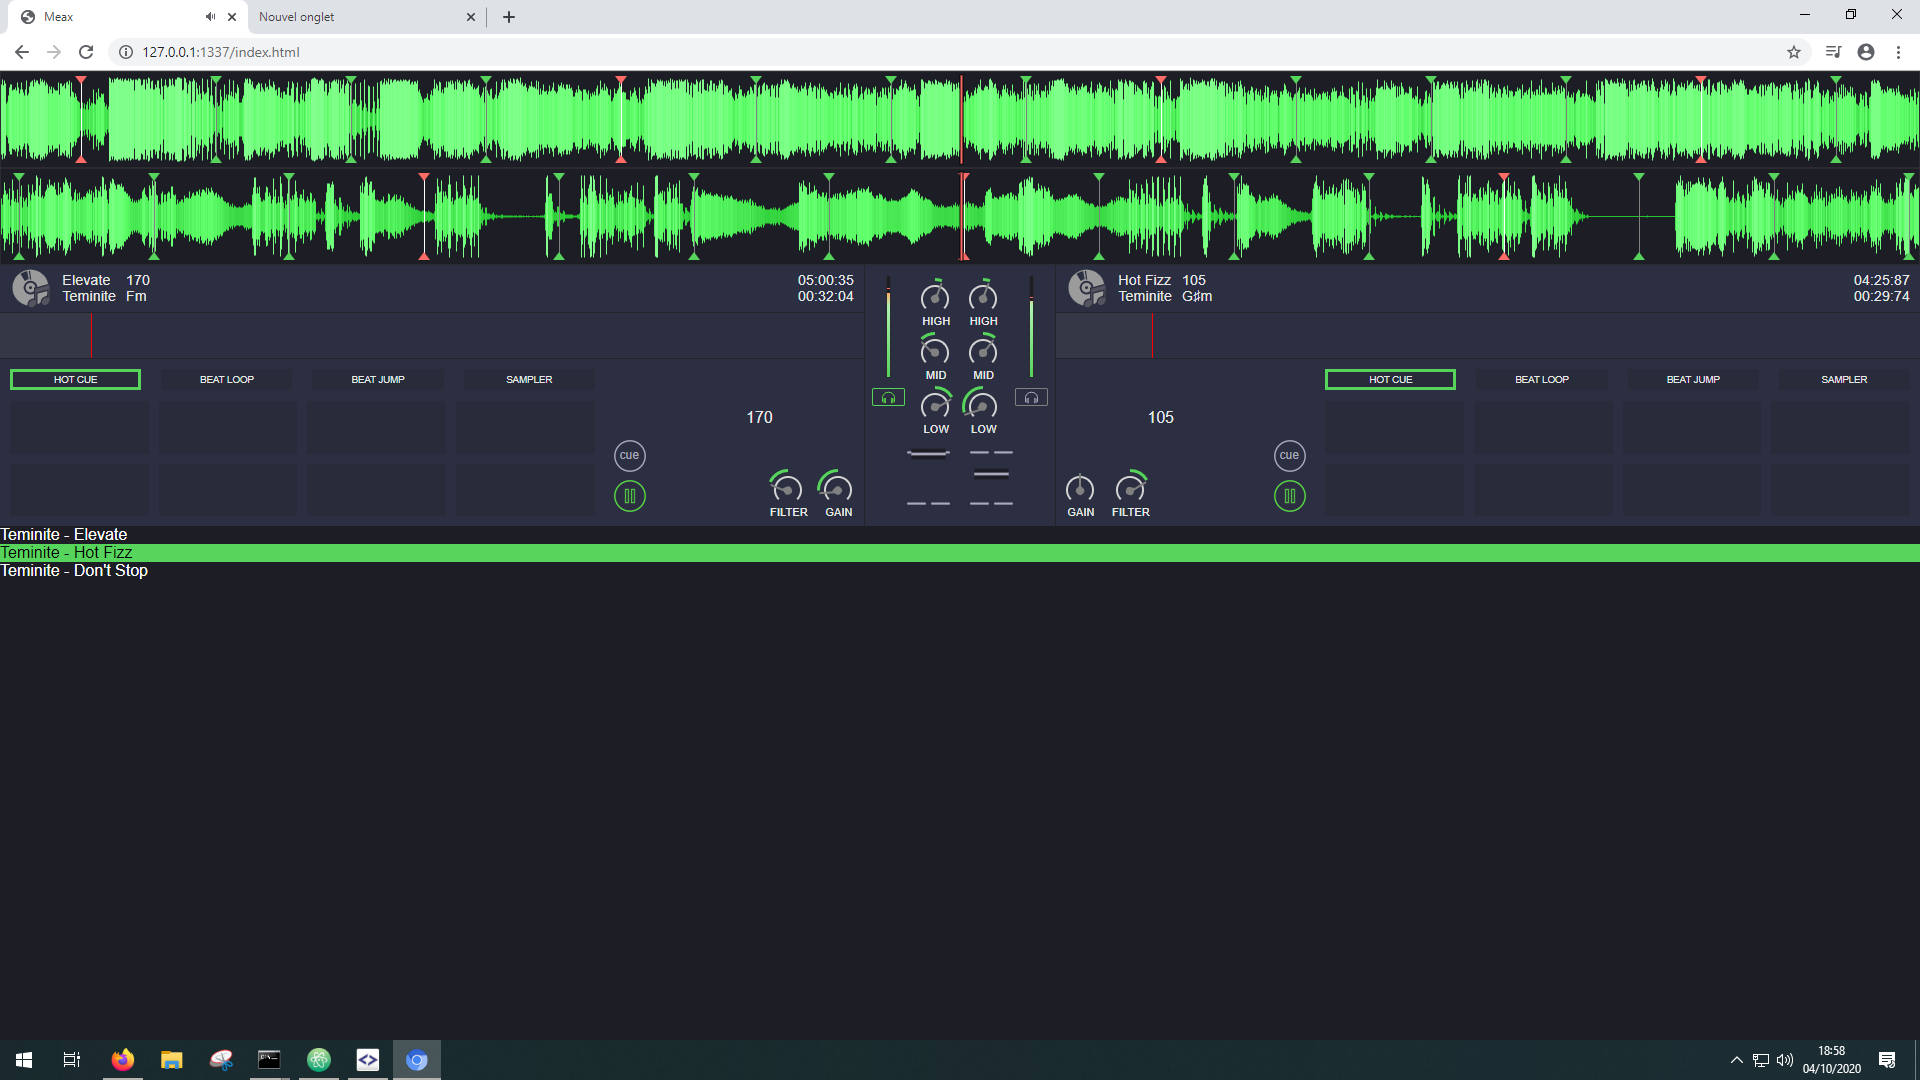
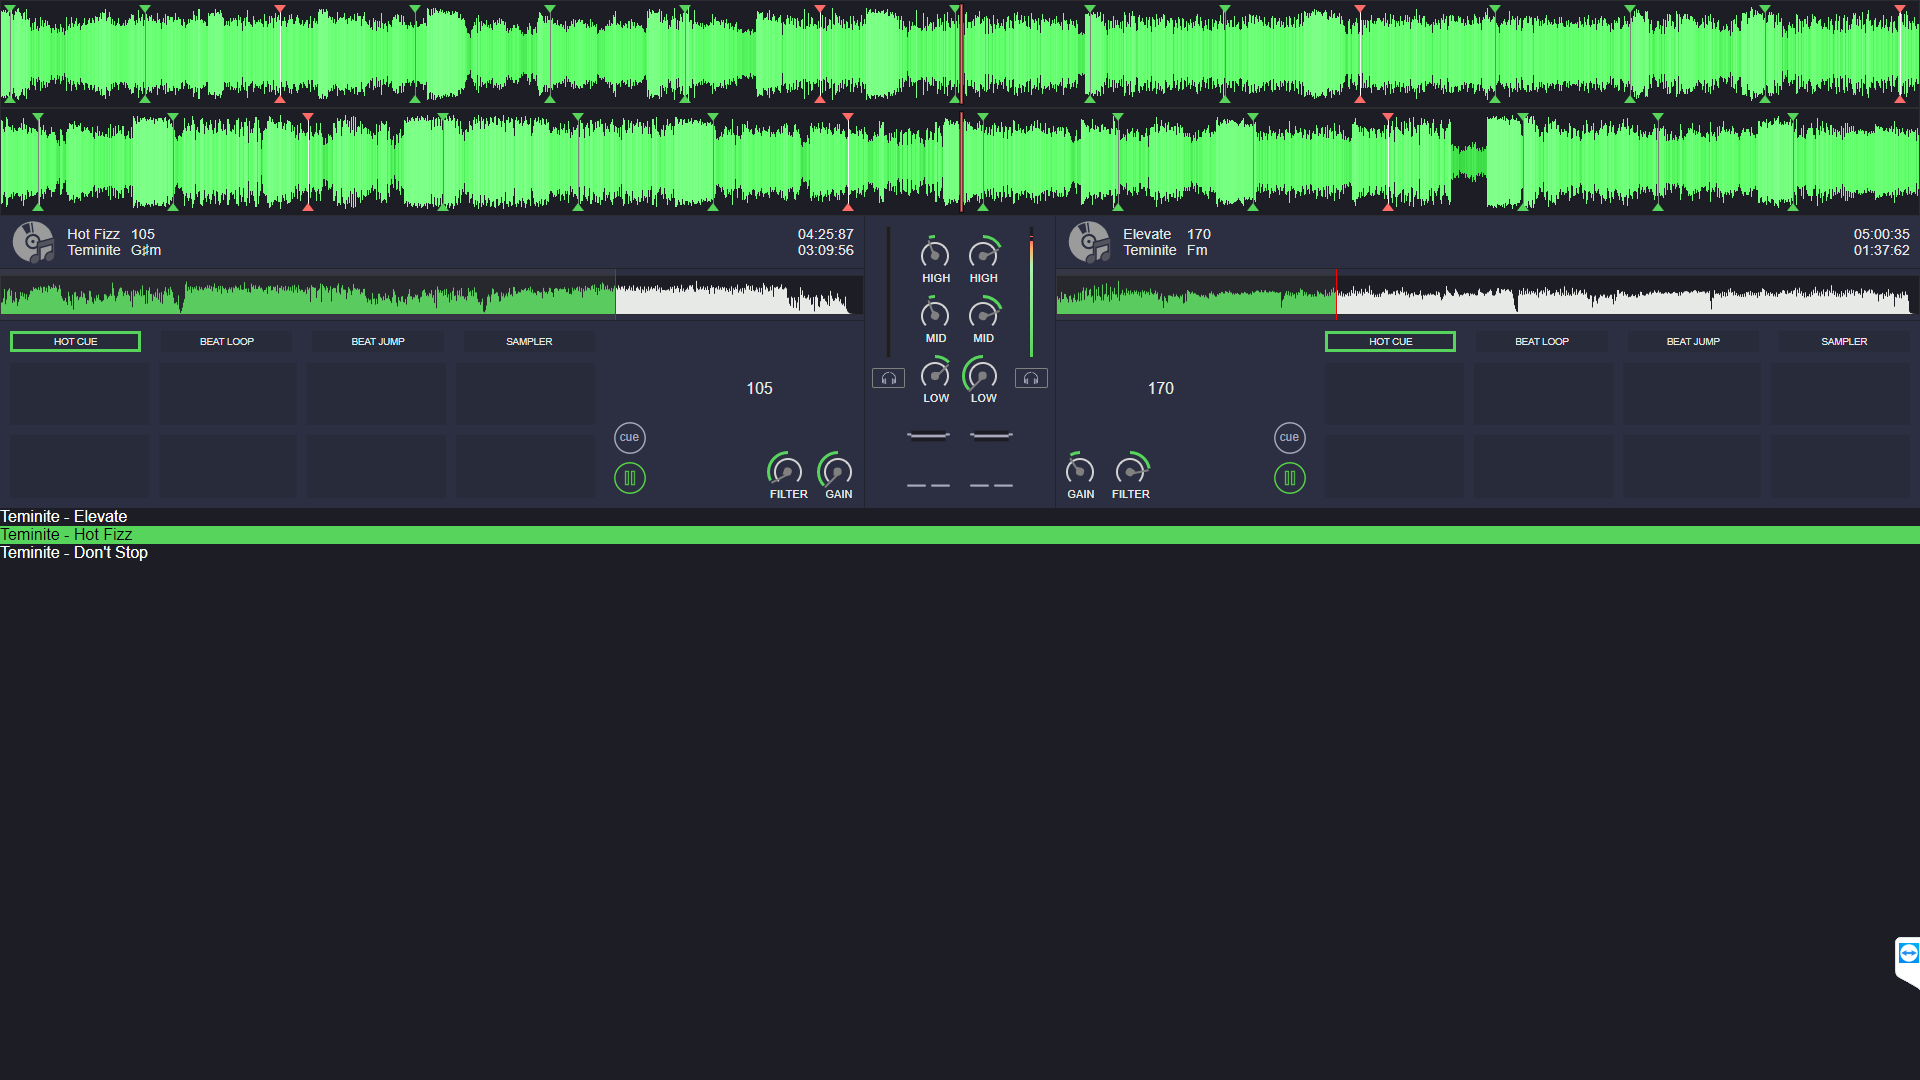
link headphones UI button

diff --git a/dist/Meax.min.js b/dist/Meax.min.js
@@ -146,7 +146,7 @@ class Meax {
 
 
   _onControllerEvent(element) {
-    //console.log(element);
+    console.log(element);
     // First bit is component ID
     const componentId = element.id.charAt(0);
     // Remove ID bit to get command unique ID
@@ -1224,7 +1224,6 @@ class Player {
 
   loadTrack(track) {
     return new Promise(resolve => {
-      console.log('load track')
       // Checking if any previous source node is playing. If true, we clean it
       if (this._isPlaying) {
         this.stopPlayback();
@@ -1235,7 +1234,6 @@ class Player {
       this._player.src = track.url;
 
       const loadedListener = () => {
-        console.log('loaded')
         this._player.removeEventListener('loadedmetadata', loadedListener); // Remove loaded track listener
         // Restore context playing state in case it turned suspended
         this._audioCtx.resume();
@@ -1659,18 +1657,23 @@ class Deck {
 
   _buildWaveform() {
     const waveformProgress = new AudioVisualizer({
-      type: 'waveformprogress', // Mandatory, either 'frequencybars', 'frequencycircle', 'oscilloscope', 'peakmeter' or 'spectrum'
-      player: Meax.pc.getPlayer(this._name), // Mandatory, the play to wire visualisation to
+      type: 'waveform',
+      player: Meax.pc.getPlayer(this._name),
+      renderTo: document.querySelector(`#waveform-${this._name}`),
+      fftSize: 1024,
       audioContext: Meax.pc.audioContext,
       inputNode: Meax.pc.getPlayerOutputNode(this._name),
-      renderTo: document.querySelector(`#waveform-${this._name}`), // Mandatory, the HTML div to render component
-      fftSize: 1024, // Optional (default 1024), Higher is smoother for vuemeter (doesn't consume much CPU)
-      animation: 'fade', // Optional (default fade), 'fade' or 'gradient', the animation on bar on progress
-      wave: { // Optional
-        align: 'bottom', // Optional (default center), how to display waveform : top, center, bottom
-        barWidth: 1, // Optional (default 1), the bar width. in range [1, 100]
-        barMarginScale: 0 // Optional (default 0.25), The bar margin percentage from to bar width in range [0, 1]
+      animation: 'fade',
+      wave: {
+        align: 'bottom',
+        barWidth: 1,
+        barMarginScale: 0,
       },
+      colors: {
+        background: '#1D1E25',
+        track: '#E7E9E7',
+        progress: '#56D45B'
+      }
     });
   }
 
@@ -1693,6 +1696,15 @@ class Deck {
   _addEvents() {
     CustomEvents.addEvent('click', this._dom.play, () => {
       Meax.pc.togglePlayback(this._name);
+    }, this);
+
+    CustomEvents.addEvent('click', this._dom.cuePhone, () => {
+      Meax.pc.setCuePhone(this._name, {
+        raw: [
+          (this._name === 'left' ? 144 : 145),
+          84,
+          (this._dom.cuePhone.classList.contains('enabled') ? 127 : 0)] // See midi controller for values
+      });
     }, this);
 
     CustomEvents.addEvent('click', this._dom.progressBar.parentNode, event => {
@@ -2155,11 +2167,18 @@ class Pad {
     for (let i = 0; i < 4; ++i) {
       this._dom[`ctrl${i + 1}`].classList.remove('enabled', 'shift-enabled');
     }
+
     /* Check if shift is held or not (even = !shift, odd = shift) */
     if (options.pad % 2 === 0) { // Even is standard modes
       this._dom[`ctrl${(options.pad / 2) + 1}`].classList.add('enabled');
+      for (let i = 0; i < 4; ++i) {
+        this._dom[`ctrl${i + 1}`].firstChild.innerHTML = Enums.PerformanceType[i * 2].toUpperCase();
+      }
     } else { // Odd is shifted modes
       this._dom[`ctrl${((options.pad - 1) / 2) + 1}`].classList.add('shift-enabled');
+      for (let i = 0; i < 4; ++i) {
+        this._dom[`ctrl${i + 1}`].firstChild.innerHTML = Enums.PerformanceType[(i * 2) + 1].toUpperCase();
+      }
     }
   }
 
@@ -2192,7 +2211,7 @@ class Pad {
 
   saveHotCue(options) {
     this._dom[`pad${options.pad}`].classList.add('enabled');
-    this._dom[`pad${options.pad}`].innerHTML = options.time;
+    this._dom[`pad${options.pad}`].innerHTML = Utils.precisionRound(options.time, 2);
   }
 
 
@@ -2205,7 +2224,6 @@ class Pad {
   setPadType(options) {
     this._type = Enums.PerformanceType[options.pad];
     this._activeTypeIndex = options.pad;
-    console.log(this._activeTypeIndex)
     this.setPadControl(options);
   }
 

diff --git a/src/js/ui/Deck.js b/src/js/ui/Deck.js
@@ -62,18 +62,23 @@ class Deck {
 
   _buildWaveform() {
     const waveformProgress = new AudioVisualizer({
-      type: 'waveformprogress', // Mandatory, either 'frequencybars', 'frequencycircle', 'oscilloscope', 'peakmeter' or 'spectrum'
-      player: Meax.pc.getPlayer(this._name), // Mandatory, the play to wire visualisation to
+      type: 'waveform',
+      player: Meax.pc.getPlayer(this._name),
+      renderTo: document.querySelector(`#waveform-${this._name}`),
+      fftSize: 1024,
       audioContext: Meax.pc.audioContext,
       inputNode: Meax.pc.getPlayerOutputNode(this._name),
-      renderTo: document.querySelector(`#waveform-${this._name}`), // Mandatory, the HTML div to render component
-      fftSize: 1024, // Optional (default 1024), Higher is smoother for vuemeter (doesn't consume much CPU)
-      animation: 'fade', // Optional (default fade), 'fade' or 'gradient', the animation on bar on progress
-      wave: { // Optional
-        align: 'bottom', // Optional (default center), how to display waveform : top, center, bottom
-        barWidth: 1, // Optional (default 1), the bar width. in range [1, 100]
-        barMarginScale: 0 // Optional (default 0.25), The bar margin percentage from to bar width in range [0, 1]
+      animation: 'fade',
+      wave: {
+        align: 'bottom',
+        barWidth: 1,
+        barMarginScale: 0,
       },
+      colors: {
+        background: '#1D1E25',
+        track: '#E7E9E7',
+        progress: '#56D45B'
+      }
     });
   }
 
@@ -96,6 +101,15 @@ class Deck {
   _addEvents() {
     CustomEvents.addEvent('click', this._dom.play, () => {
       Meax.pc.togglePlayback(this._name);
+    }, this);
+
+    CustomEvents.addEvent('click', this._dom.cuePhone, () => {
+      Meax.pc.setCuePhone(this._name, {
+        raw: [
+          (this._name === 'left' ? 144 : 145),
+          84,
+          (this._dom.cuePhone.classList.contains('enabled') ? 127 : 0)] // See midi controller for values
+      });
     }, this);
 
     CustomEvents.addEvent('click', this._dom.progressBar.parentNode, event => {

diff --git a/src/js/ui/component/Pad.js b/src/js/ui/component/Pad.js
@@ -41,11 +41,18 @@ class Pad {
     for (let i = 0; i < 4; ++i) {
       this._dom[`ctrl${i + 1}`].classList.remove('enabled', 'shift-enabled');
     }
+
     /* Check if shift is held or not (even = !shift, odd = shift) */
     if (options.pad % 2 === 0) { // Even is standard modes
       this._dom[`ctrl${(options.pad / 2) + 1}`].classList.add('enabled');
+      for (let i = 0; i < 4; ++i) {
+        this._dom[`ctrl${i + 1}`].firstChild.innerHTML = Enums.PerformanceType[i * 2].toUpperCase();
+      }
     } else { // Odd is shifted modes
       this._dom[`ctrl${((options.pad - 1) / 2) + 1}`].classList.add('shift-enabled');
+      for (let i = 0; i < 4; ++i) {
+        this._dom[`ctrl${i + 1}`].firstChild.innerHTML = Enums.PerformanceType[(i * 2) + 1].toUpperCase();
+      }
     }
   }
 
@@ -78,7 +85,7 @@ class Pad {
 
   saveHotCue(options) {
     this._dom[`pad${options.pad}`].classList.add('enabled');
-    this._dom[`pad${options.pad}`].innerHTML = options.time;
+    this._dom[`pad${options.pad}`].innerHTML = Utils.precisionRound(options.time, 2);
   }
 
 
@@ -91,7 +98,6 @@ class Pad {
   setPadType(options) {
     this._type = Enums.PerformanceType[options.pad];
     this._activeTypeIndex = options.pad;
-    console.log(this._activeTypeIndex)
     this.setPadControl(options);
   }
 

diff --git a/src/js/playback/Player.js b/src/js/playback/Player.js
@@ -37,7 +37,6 @@ class Player {
 
   loadTrack(track) {
     return new Promise(resolve => {
-      console.log('load track')
       // Checking if any previous source node is playing. If true, we clean it
       if (this._isPlaying) {
         this.stopPlayback();
@@ -48,7 +47,6 @@ class Player {
       this._player.src = track.url;
 
       const loadedListener = () => {
-        console.log('loaded')
         this._player.removeEventListener('loadedmetadata', loadedListener); // Remove loaded track listener
         // Restore context playing state in case it turned suspended
         this._audioCtx.resume();

diff --git a/src/js/Meax.js b/src/js/Meax.js
@@ -32,7 +32,7 @@ class Meax {
 
 
   _onControllerEvent(element) {
-    //console.log(element);
+    console.log(element);
     // First bit is component ID
     const componentId = element.id.charAt(0);
     // Remove ID bit to get command unique ID
